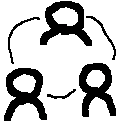
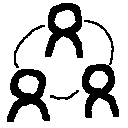
formatting

Changed region(s): [[0.0312, 0.0, 0.9062, 0.9688], [0.1875, 0.5625, 0.4062, 0.9688], [0.8125, 0.75, 0.9375, 0.9375]]

diff --git a/README.md b/README.md
@@ -1,1 +1,33 @@
-cool realtime collaboration
+# <sub><sub>silver's</sub></sub> <br> **Live Collab**
+
+This extension allows you to code collaborate with others in realtime!
+
+**everything is under heavy development so expect random bugs*
+
+### Features
+- Create rooms
+- Join rooms
+- Browse & manage room files
+- Edit files at the same time
+- See other's cursors
+
+## How to use
+### To join a room
+- Open the collab sidebar tab, it's the 3 people icon thing
+- Select a host
+- Open rooms
+- Join a room in the room list
+
+### To host a room
+- First, open the folder that you want to share
+- Open the collab sidebar tab, it's the 3 people icon thing
+- Select a host
+- Open rooms
+- Create a room and provide a name
+
+---
+
+### Known bugs
+- Opening non-text files like .pngs and .gifs closes the room
+- Typing at the same time as someone else occasionally duplicates / discards text
+- Renaming / moving files & folders doesn't work as a client
